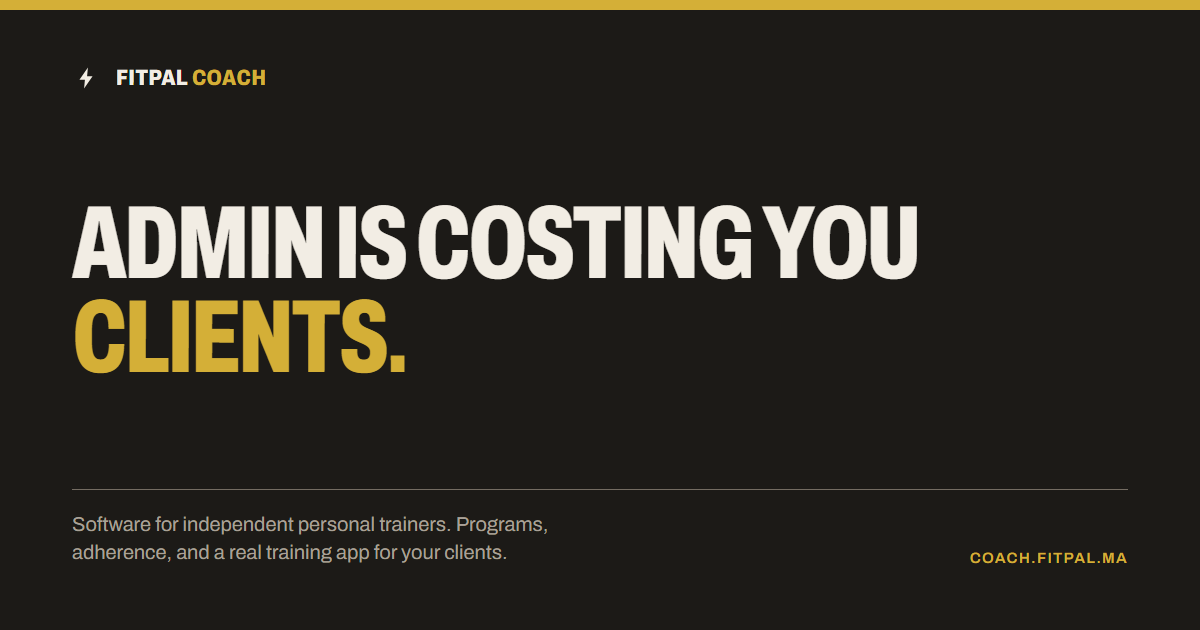
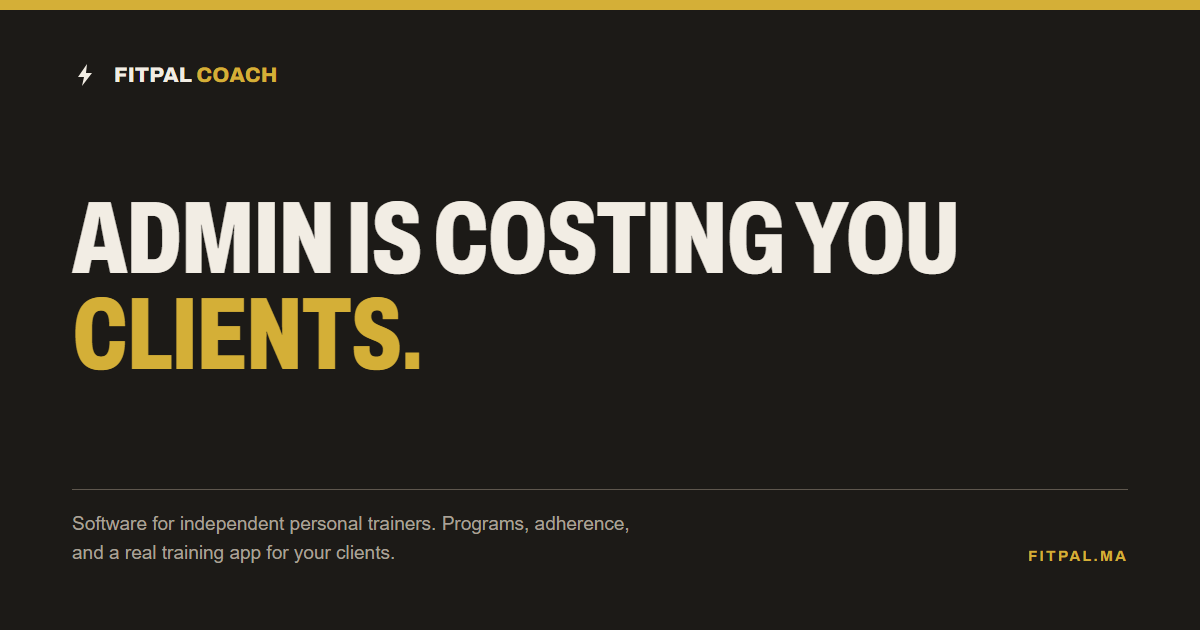
QA fixes from the fr/es pass: sentence case, plural, catalogue order, cards
- Sentence case outside English. Labels and exercise names were title-cased
  by CSS (text-transform: capitalize), which is English typography: "Machine
  À Levier", "Sentadilla Completa Con Barra". With <html lang> not en, the
  capitalize class, chips, tags, the timer label and the Home row capitalise
  the first letter only. Tags are inline-flex, which ::first-letter cannot
  reach, so their text goes through a new capFirst() instead.
- History: "1 entrenamientos" -> tp().
- es "Check in" was "Registrarse" (sign up); now "Responder". fr
  "Enregistrement" -> "Faire le point". es "Progress & history" no longer
  repeats the "Progreso" title above it.
- The catalogue lists in the reader's alphabetical order: sorted by the
  translated name with the language's collation, once per language change.
  English keeps the stored order.
- og-fr / og-en re-rendered from the og-es card: fitpal.ma, not
  coach.fitpal.ma.

diff --git a/frontend/src/sheets.jsx b/frontend/src/sheets.jsx
@@ -8,7 +8,7 @@ import { lastEntryFor, bestWeightFor, bestWeightForEntry, buildSets, effectiveRo
 import { usesBar, barWeightFor, defaultBarWeight, hasBarOverride } from './lib/bar.js'
 import { toScale, rirOf, EFFORT_PRESETS, effortColor } from './lib/effort.js'
 import { beep, vibrate } from './lib/sound.js'
-import { t, tp, dateLocale, instrFor, exerciseNameFor, localExerciseName, getLang, INSTR_LANGS } from './lib/i18n.js'
+import { t, tp, dateLocale, instrFor, exerciseNameFor, localExerciseName, capFirst, getLang, INSTR_LANGS } from './lib/i18n.js'
 import { nav } from './lib/nav.js'
 import { buildStarterPlan, starterPlanDays, starterPlanOptions } from './lib/starter.js'
 import { SITES, SITE_LABEL, isValidValue, latestBySite, lengthUnit, removeMeasurement, upsertMeasurement } from './lib/measurements.js'
@@ -870,10 +870,10 @@ function ExerciseDetail({ ex, close }) {
     </div>
     <Media ex={ex} />
     <div className="row" style={{ gap: 6, flexWrap: 'wrap', margin: '10px 0' }}>
-      <span className="tag acc">{t(ex.bp)}</span>
-      {(ex.primaries?.length ? ex.primaries : (ex.tg ? [ex.tg] : [])).map((s, i) => <span key={i} className="tag"><Icon name="target" />{t(s)}</span>)}
-      <span className="tag"><Icon name="dumbbell" />{t(ex.eq)}</span>
-      {(ex.secondaries?.length ? ex.secondaries : smOf(ex)).slice(0, 3).map((s, i) => <span key={i} className="tag">{t(s)}</span>)}
+      <span className="tag acc">{capFirst(t(ex.bp))}</span>
+      {(ex.primaries?.length ? ex.primaries : (ex.tg ? [ex.tg] : [])).map((s, i) => <span key={i} className="tag"><Icon name="target" />{capFirst(t(s))}</span>)}
+      <span className="tag"><Icon name="dumbbell" />{capFirst(t(ex.eq))}</span>
+      {(ex.secondaries?.length ? ex.secondaries : smOf(ex)).slice(0, 3).map((s, i) => <span key={i} className="tag">{capFirst(t(s))}</span>)}
     </div>
     {ex.desc && <div className="exnote">{ex.desc}</div>}
     {best > 0 && <div className="small row" style={{ marginBottom: 6, gap: 5 }}><Icon name="trophy" style={{ fontSize: 14, color: 'var(--yellow)' }} />{t('Best:')} <b className="accent">{fmtNum(best)} {st.unit}</b>{last ? ` · ${t('last')} ${fmtDate(last.d)}: ${last.sets.map(s => setLabel(ex.id, s, last.target)).join(', ')}` : ''}</div>}
@@ -1431,9 +1431,9 @@ function ExConfig({ ex, existing, onSave, onDelete, close, routine, initial }) {
         only visible from the Exercises tab, after the fact. */}
     <div className="row" style={{ gap: 6, flexWrap: 'wrap', margin: '10px 0 14px' }}>
       {cardio && <span className="tag acc"><Icon name="figureRun" />{t('Cardio')}</span>}
-      <span className="tag">{t(ex.tg || ex.bp)}</span><span className="tag">{t(ex.eq)}</span>
+      <span className="tag">{capFirst(t(ex.tg || ex.bp))}</span><span className="tag">{capFirst(t(ex.eq))}</span>
       {!cardio && (ex.secondaries?.length ? ex.secondaries : smOf(ex)).slice(0, 3)
-        .map((s, i) => <span key={i} className="tag dim">{t(s)}</span>)}
+        .map((s, i) => <span key={i} className="tag dim">{capFirst(t(s))}</span>)}
     </div>
     {ex.desc && <div className="exnote">{ex.desc}</div>}
     {!cardio && <div style={{ marginBottom: 14 }}>
@@ -2204,7 +2204,7 @@ function TopWeight({ entryIdx, close }) {
     } else toast(t('Tracked — next time starts at {0}', fmtNum(S().exWeights[entry.id].w) + ' ' + st.unit))
   }
   return <>
-    <h3 className="capitalize row" style={{ gap: 8 }}><Icon name="checkCircle" style={{ color: 'var(--acc)' }} />{t('{0} done', exerciseNameFor(ex))}</h3>
+    <h3 className="capitalize row" style={{ gap: 8 }}><Icon name="checkCircle" style={{ color: 'var(--acc)' }} />{capFirst(t('{0} done', exerciseNameFor(ex)))}</h3>
     <div className="muted small">{t('Confirm the weight you worked with — your highest becomes the default next time.')}{!unitDone && unit.length > 1 ? ' ' + t('Then finish the superset partner.') : ''}</div>
     <WeightInput value={v} setValue={setV} unit={st.unit} />
     <div style={{ height: 10 }} />

diff --git a/frontend/src/lib/exercises.js b/frontend/src/lib/exercises.js
@@ -1,6 +1,6 @@
 import { EXDB } from './exercises-data.js'
 import { USER_EXERCISE_MUSCLE_OVERRIDES, exerciseMuscleMetadataFor } from './exercise-muscle-batch-1.js'
-import { t, getVersion, exerciseNameSearchText } from './i18n-core.js'
+import { t, getVersion, getLang, DEFAULT_LANG, localExerciseName, exerciseNameSearchText } from './i18n-core.js'
 import { coachMediaFor, isPhotoRow, isVideoRow } from './coach-media.js'
 
 export { EXDB }
@@ -84,8 +84,23 @@ export function registerCustom(list) {
   customIds = (list || []).map(e => e.id)
   ;(list || []).forEach(e => { EXIDX[e.id] = e })
 }
+// The built-ins in the reader's alphabetical order. EXDB is stored in English order, so a French
+// or Spanish list ran "Sit-up 3/4, Flexion latérale…, Crunch bicyclette" (CHW-209). Sorted by the
+// translated name with the language's own collation, once per language change; English keeps
+// the stored order untouched.
+let orderedFor = -1, ordered = CATALOGUE
+function catalogueInOrder() {
+  if (orderedFor !== getVersion()) {
+    orderedFor = getVersion()
+    const lang = getLang()
+    ordered = lang === DEFAULT_LANG ? CATALOGUE : [...CATALOGUE].sort((a, b) =>
+      localExerciseName(a).localeCompare(localExerciseName(b), lang, { sensitivity: 'base', numeric: true }))
+  }
+  return ordered
+}
+
 // Full searchable catalogue — customs first so your own exercises are easy to find.
-export const allExercises = st => [...(st.customEx || []), ...CATALOGUE]
+export const allExercises = st => [...(st.customEx || []), ...catalogueInOrder()]
 
 function searchableText(value) {
   if (Array.isArray(value)) return value.map(searchableText).join(' ')

diff --git a/frontend/src/lib/exercises.test.js b/frontend/src/lib/exercises.test.js
@@ -1,5 +1,5 @@
 import { describe, it, expect } from 'vitest'
-import { matchExercise, normalizeStr, resolveMedia, searchScore } from './exercises.js'
+import { matchExercise, normalizeStr, resolveMedia, searchScore, allExercises, CATALOGUE } from './exercises.js'
 import { _setLangState } from './i18n-core.js'
 
 describe('normalizeStr', () => {
@@ -146,5 +146,26 @@ describe('resolveMedia and the video poster', () => {
 
   it('uses a coach-uploaded photo, because that one they chose', () => {
     expect(resolveMedia(ex, [vid, pic]).videoPoster).toBeTruthy()
+  })
+})
+
+// CHW-209: a French list ran in English order because EXDB is stored that way.
+describe('allExercises order', () => {
+  const [a, b] = [CATALOGUE[0], CATALOGUE[1]]
+  it('English keeps the stored order, customs first', () => {
+    _setLangState('en', {}, null, null)
+    const list = allExercises({ customEx: [{ id: 'c1', n: 'zzz mine' }] })
+    expect(list[0].id).toBe('c1')
+    expect(list[1]).toBe(a)
+  })
+
+  it('a translated language sorts the built-ins by their own names, accents ignored', () => {
+    // Only two names in the pack: "Écarté" must land with the E's, before "Zzz", and both after
+    // everything English-named that starts earlier. What matters here is the pair's relative order.
+    _setLangState('fr', {}, null, { [a.id]: 'Zzz dernier', [b.id]: 'Écarté premier' })
+    const list = allExercises({})
+    expect(list.indexOf(b)).toBeLessThan(list.indexOf(a))
+    expect(list).toHaveLength(CATALOGUE.length)
+    _setLangState('en', {}, null, null)
   })
 })

diff --git a/frontend/src/views/History.jsx b/frontend/src/views/History.jsx
@@ -1,6 +1,6 @@
 import { useNavigate } from 'react-router-dom'
 import { useStore } from '../store/useStore.js'
-import { t } from '../lib/i18n.js'
+import { t, tp } from '../lib/i18n.js'
 import { WorkoutRow, workoutDetailSheet, logPastWorkoutSheet } from '../sheets.jsx'
 import { Button } from '../components/ui.jsx'
 import Icon from '../components/Icon.jsx'
@@ -10,7 +10,7 @@ export default function History() {
   const S = useStore(s => s.S)
   return <>
     <div className="hdr"><button className="iconbtn" onClick={() => nav('/stats')} aria-label={t('Stats')}><Icon name="chevronLeft" /></button>
-      <div style={{ flex: 1, marginLeft: 12 }}><h1>{t('History')}</h1><div className="sub">{t('{0} workouts', S.workouts.length)}</div></div></div>
+      <div style={{ flex: 1, marginLeft: 12 }}><h1>{t('History')}</h1><div className="sub">{tp(S.workouts.length, '{0} workout', '{0} workouts')}</div></div></div>
     <Button icon="plus" onClick={logPastWorkoutSheet} style={{ marginBottom: 12 }}>{t('Log a past workout')}</Button>
     {S.workouts.length ? <div className="list">{[...S.workouts].reverse().map(w => <WorkoutRow key={w.id} w={w} onClick={() => workoutDetailSheet(w)} />)}</div>
       : <div className="empty"><div className="ico"><Icon name="history" /></div>{t('No workouts yet.')}</div>}

diff --git a/frontend/src/locales/es.js b/frontend/src/locales/es.js
@@ -240,7 +240,7 @@ export default {
   'this week': 'esta semana',
   '{0} workout total': '{0} entrenamiento en total',
   '{0} workouts total': '{0} entrenamientos en total',
-  'Progress & history': 'Progreso e historial',
+  'Progress & history': 'Evolución e historial',
   'Workouts': 'Entrenos',
   'This month': 'Este mes',
   'Week streak': 'Racha semanal',
@@ -867,7 +867,7 @@ export default {
   'Applies to this exercise everywhere, not just this plan.': 'Se aplica a este ejercicio en todas partes, no solo en este plan.',
   'You still log the total weight — the bar only feeds the per-side plate math.': 'Sigues registrando el peso total — la barra solo se usa para calcular los discos por lado.',
   // Gym check-in (mobile-only)
-  'Check in': 'Registrarse',
+  'Check in': 'Responder',
   'At the gym': 'En el gimnasio',
   'Type the number on your membership card, import a photo of it, or scan it with the camera. No extra app needed at the gym — just open this screen.': 'Escribe el número de tu tarjeta de socio, importa una foto o escanéala con la cámara. No hace falta otra app en el gimnasio — solo abre esta pantalla.',
   'Scan it, import a photo, or type the code by hand.': 'Escanéala, importa una foto o escribe el código a mano.',

diff --git a/frontend/src/index.css b/frontend/src/index.css
@@ -156,6 +156,11 @@ button,.chip,.tile,.item,.wday,.cal-d,.swatch,.hm-c,.lrow,.seg button,.stp butto
 .small{font-size:13px;line-height:1.38}
 .accent{color:var(--acc)}
 .capitalize{text-transform:capitalize}
+/* English title-cases ("Machine Smith"); French, Spanish and German capitalise the first word only
+   ("Machine à levier", "Sentadilla completa con barra"). The html lang is set by App.jsx. Tags are
+   inline-flex, which ::first-letter cannot reach, so their text goes through capFirst instead. */
+html:not([lang="en"]) :is(.capitalize, .chip, .tag, #timer.working .lbl, .today-row .ttl){text-transform:none}
+html:not([lang="en"]) :is(.capitalize, .chip, #timer.working .lbl, .today-row .ttl)::first-letter{text-transform:uppercase}
 /* exercise names and body-part/equipment terms arrive lowercase from the dataset,
    so tags and chips capitalise by default. Anything that is a unit or a sentence opts
    back out — blanket-capitalising turned "60 kg" into "60 Kg" and a whole hint into

diff --git a/frontend/src/locales/fr.js b/frontend/src/locales/fr.js
@@ -867,7 +867,7 @@ export default {
   'Applies to this exercise everywhere, not just this plan.': 'S’applique à cet exercice partout, pas seulement dans ce plan.',
   'You still log the total weight — the bar only feeds the per-side plate math.': 'Vous enregistrez toujours le poids total — la barre ne sert qu’au calcul des disques par côté.',
   // Gym check-in (mobile-only)
-  'Check in': 'Enregistrement',
+  'Check in': 'Faire le point',
   'At the gym': 'À la salle',
   'Type the number on your membership card, import a photo of it, or scan it with the camera. No extra app needed at the gym — just open this screen.': 'Saisissez le numéro de votre carte de membre, importez une photo ou scannez-la avec l’appareil photo. Aucune autre appli nécessaire à la salle — ouvrez simplement cet écran.',
   'Scan it, import a photo, or type the code by hand.': 'Scannez-la, importez une photo ou saisissez le code à la main.',

diff --git a/frontend/src/views/Workout.jsx b/frontend/src/views/Workout.jsx
@@ -354,7 +354,7 @@ function ExerciseBlock({ entryIdx, compact, dense, onToggle, onToggleSide, onFie
   return <>
     {!dense && <Media ex={ex} key={entry.id} compact={compact} minimizable />}
     <div className="row between" style={{ marginBottom: 6 }}>
-      <div style={{ fontSize: (compact || dense) ? 17 : 20, fontWeight: 600, letterSpacing: '-.02em', textTransform: 'capitalize', lineHeight: 1.2 }}>{exerciseNameFor(ex)}</div>
+      <div className="capitalize" style={{ fontSize: (compact || dense) ? 17 : 20, fontWeight: 600, letterSpacing: '-.02em', lineHeight: 1.2 }}>{exerciseNameFor(ex)}</div>
       <div className="row" style={{ gap: 2, flex: 'none' }}>
         {entry.note && <button className="iconbtn" aria-label={t('Note')} title={t('Note')} style={{ color: 'var(--acc)' }}
           onClick={() => exerciseNoteSheet(entryIdx)}><Icon name="pencil" /></button>}

diff --git a/frontend/src/lib/i18n.js b/frontend/src/lib/i18n.js
@@ -6,12 +6,12 @@
 import { useSyncExternalStore } from 'react'
 import {
   DEFAULT_LANG, LANGS, INSTR_LANGS, EXERCISE_NAME_LANGS, DATE_LOCALES,
-  getLang, dateLocale, t, tp, instrFor, exerciseNameFor, localExerciseName, exerciseNameSearchText, getVersion, _setLangState
+  getLang, dateLocale, t, tp, instrFor, exerciseNameFor, localExerciseName, exerciseNameSearchText, capFirst, getVersion, _setLangState
 } from './i18n-core.js'
 
 export {
   DEFAULT_LANG, LANGS, INSTR_LANGS, EXERCISE_NAME_LANGS, DATE_LOCALES,
-  getLang, dateLocale, t, tp, instrFor, exerciseNameFor, localExerciseName, exerciseNameSearchText
+  getLang, dateLocale, t, tp, instrFor, exerciseNameFor, localExerciseName, exerciseNameSearchText, capFirst
 }
 
 // Vite code-splits locale, instruction and exercise-name packs via import.meta.glob. They are

diff --git a/frontend/src/lib/i18n-core.js b/frontend/src/lib/i18n-core.js
@@ -66,6 +66,10 @@ export function tp(n, one, other, ...args) {
 // Instructions for an exercise in the current language (English steps as fallback).
 export const instrFor = ex => (instr && instr[ex.id]) || ex.st || []
 
+// The first letter in capitals, for text in a box CSS's ::first-letter cannot reach (an inline-flex
+// .tag). English is left alone: its title case comes from the stylesheet.
+export const capFirst = s => (lang === DEFAULT_LANG || !s ? s : s[0].toLocaleUpperCase(lang) + s.slice(1))
+
 // Built-in catalogue names are bilingual when a complete translated name pack is active.
 // User-created exercises have no entry in the pack and keep their exact chosen name.
 export const exerciseNameFor = ex => {

diff --git a/site-coach/README.md b/site-coach/README.md
@@ -48,8 +48,8 @@ img/screens/*.png       real app screenshots (see below). The two CLIENT screens
                         "Training now" is live presence: POST /api/activity for two demo clients
                         right before each capture, and drop any non-demo client from the capture
                         instance or the counters will not read 6.
-img/og-{fr,en,es}.png   1200x630 social cards (og-es says fitpal.ma; the other two
-                        still print the old coach.fitpal.ma and want re-rendering)
+img/og-{fr,en,es}.png   1200x630 social cards, one layout in three languages, all ending in
+                        fitpal.ma (rendered from an HTML card in headless Chrome, Archivo)
 img/promo-poster-{fr,en,es}.jpg  hero video poster (the frame at 10.1s, 800x450)
 img/coach-hero.jpg      hero portrait beside the headline (stock, illustrative)
 img/coaches.jpg         the full-bleed photo band (stock, illustrative — both in NOTICE.md)
